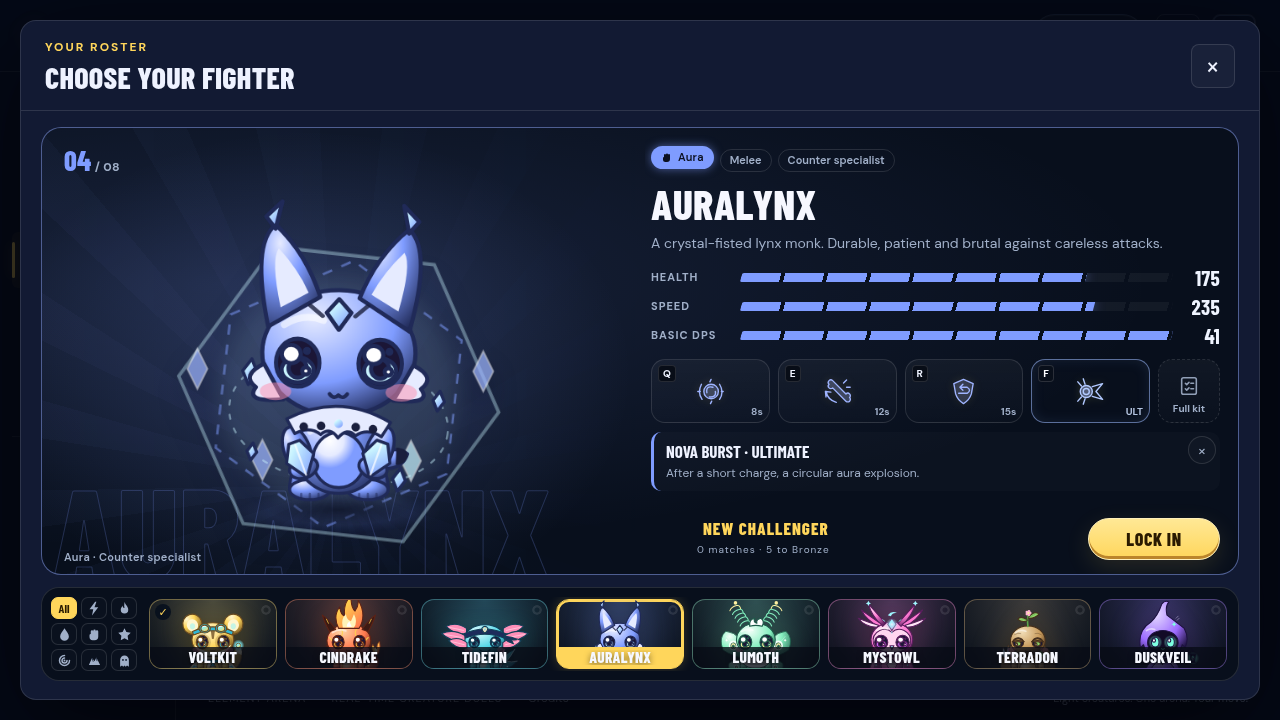
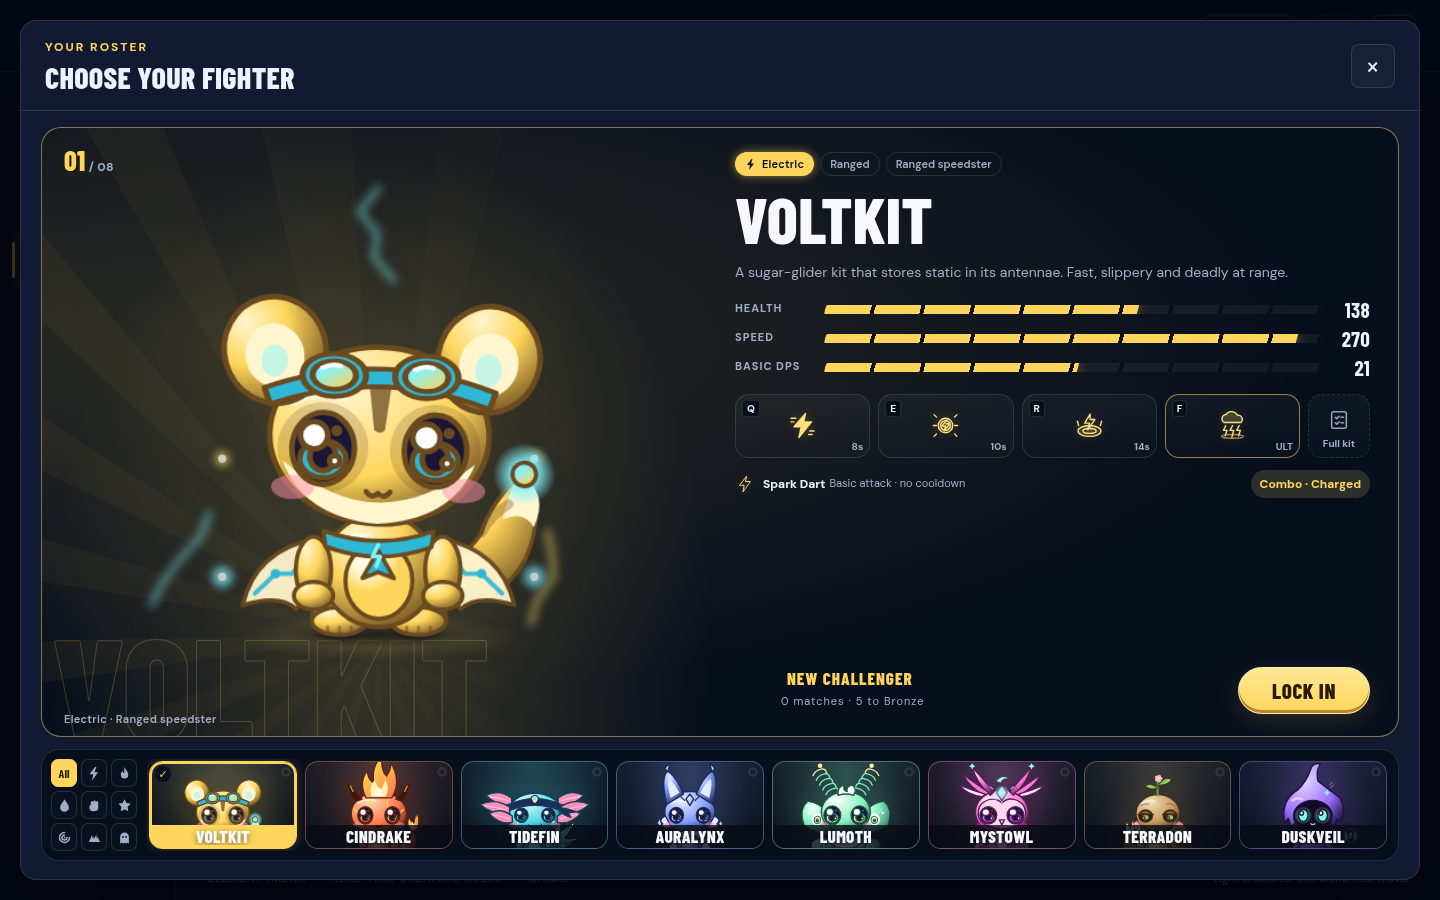
Ground fighter previews and align background rays

diff --git a/apps/client/src/fighter-selection.ts b/apps/client/src/fighter-selection.ts
@@ -27,7 +27,7 @@ function art(id: CharacterId, large = false, aura = false) {
     return `<img class="creature-portrait" loading="lazy" decoding="async" src="/assets/fighters/${id}/${large ? pack.selection : pack.portrait}" alt="${CHARACTERS[id].name}">`;
   // Card and detail portrait of the same fighter need their own ids.
   const svg = fighterArt(id, undefined, worn[id]);
-  const framed = large ? withSoftGround(svg) : svg;
+  const framed = large ? withSoftGround(svg, id) : svg;
   return scopeIds(
     aura ? withAura(framed, id, still()) : framed,
     large ? "detail" : "card",
@@ -362,6 +362,32 @@ export function placeFighterDetail(root: ParentNode) {
     else roster.append(detail);
   }
 }
+let groundResize: ResizeObserver | undefined;
+let groundedArt: HTMLElement | undefined;
+/** Match the rays to the SVG ground plane, including contain-fit letterboxing. */
+function alignChampionGround(detail: HTMLElement) {
+  const art = detail.querySelector<HTMLElement>(".fighter-rig-stage")!;
+  const align = () => {
+    const shadow = art.querySelector<SVGEllipseElement>(".fighter-shadow");
+    const matrix = shadow?.getScreenCTM();
+    if (!shadow || !matrix || !art.getClientRects().length) return;
+    const point = new DOMPoint(
+      shadow.cx.baseVal.value,
+      shadow.cy.baseVal.value,
+    );
+    const ground =
+      point.matrixTransform(matrix).y - art.getBoundingClientRect().top;
+    if (ground > 0)
+      art.style.setProperty("--champion-ground-y", `${ground.toFixed(2)}px`);
+  };
+  if (groundedArt !== art) {
+    groundResize?.disconnect();
+    groundedArt = art;
+    groundResize = new ResizeObserver(align);
+    groundResize.observe(art);
+  }
+  align();
+}
 /** Both sections remain in the DOM; native buttons also work with a controller. */
 function showFighterSection(detail: HTMLElement, section: string) {
   const skills = section === "skills";
@@ -377,6 +403,7 @@ function showFighterSection(detail: HTMLElement, section: string) {
       "aria-pressed",
       String(button.dataset.fighterPreview === section),
     );
+  alignChampionGround(detail);
 }
 function inspectSkill(detail: HTMLElement, key?: string) {
   const tooltip = detail.querySelector<HTMLElement>(".champion-skill-tooltip")!;
@@ -429,6 +456,8 @@ let navigationEvents: AbortController | undefined;
 /** Re-place the panel whenever the roster switches between layouts. */
 export function watchFighterDetail(root: HTMLElement) {
   watched?.disconnect();
+  groundResize?.disconnect();
+  groundedArt = undefined;
   navigationEvents?.abort();
   navigationEvents = new AbortController();
   const panel = root.querySelector<HTMLElement>(".roster-panel") ?? root;

diff --git a/apps/client/src/fighter-art.ts b/apps/client/src/fighter-art.ts
@@ -1,8 +1,29 @@
 import { CHARACTERS, type CharacterId } from "@arena/shared";
-import { AVATAR_VIEWBOX, creatureSvg, type SkinLook } from "./creature-design";
+import {
+  AVATAR_VIEWBOX,
+  creatureSvg,
+  proportioned,
+  type SkinLook,
+} from "./creature-design";
 
 /** A borderless contact shadow shared by Home and full fighter previews. */
-export function withSoftGround(svg: string) {
+export function withSoftGround(svg: string, id: CharacterId) {
+  // The old floor at y=177 predates the chibi limb proportions. Anchor the
+  // contact shade to the authored paws, using the same transform as the rig.
+  // Hovering fighters keep a diffuse floor beneath their airborne idle.
+  const hovering = ["auralynx", "mystowl", "duskveil"].includes(id);
+  const pawY = id === "terradon" ? 173 : id === "cindrake" ? 172 : 171;
+  const pawX = id === "terradon" ? 76 : id === "cindrake" ? 78 : 80;
+  const [left, feet] = proportioned("legL", pawX, pawY);
+  const ground = hovering ? 177 : feet;
+  const contact = hovering
+    ? ""
+    : [left, 200 - left]
+        .map(
+          (x) =>
+            `<ellipse cx="${x}" cy="${feet}" rx="12" ry="3" fill="url(#home-contact)"/>`,
+        )
+        .join("");
   return svg
     .replace(
       "</defs>",
@@ -10,7 +31,7 @@ export function withSoftGround(svg: string) {
     )
     .replace(
       /<ellipse class="fighter-shadow"[^>]*\/>/,
-      '<g class="home-contact-shadow" stroke="none"><ellipse cx="100" cy="178" rx="62" ry="13" fill="url(#home-floor-light)"/><ellipse class="fighter-shadow" cx="100" cy="177" rx="42" ry="9" fill="url(#home-contact)"/></g>',
+      `<g class="home-contact-shadow" stroke="none"><ellipse cx="100" cy="${ground + 1}" rx="62" ry="11" fill="url(#home-floor-light)"/><ellipse class="fighter-shadow" cx="100" cy="${ground}" rx="42" ry="${hovering ? 9 : 6}" fill="url(#home-contact)"/>${contact}</g>`,
     );
 }
 /**

diff --git a/apps/client/src/champion-selection.css b/apps/client/src/champion-selection.css
@@ -85,7 +85,7 @@
   overflow: hidden;
   isolation: isolate;
   background: radial-gradient(
-    ellipse at 45% 55%,
+    ellipse at 50% var(--champion-ground-y, 75%),
     color-mix(in srgb, var(--element) 20%, transparent),
     transparent 70%
   );
@@ -93,11 +93,11 @@
 #menu .champion-selector .selected-art::before {
   content: "";
   position: absolute;
-  inset: -25%;
+  inset: 0;
   z-index: -1;
   pointer-events: none;
   background: repeating-conic-gradient(
-    from -10deg at 50% 70%,
+    from -10deg at 50% var(--champion-ground-y, 75%),
     color-mix(in srgb, var(--element) 6%, transparent) 0deg 7deg,
     transparent 7deg 17deg
   );
@@ -109,6 +109,7 @@
   inset: 4% 3% 2%;
   width: 94% !important;
   height: 94% !important;
+  max-width: none;
   max-height: none;
   margin: 0;
   object-fit: contain;

diff --git a/apps/client/src/home-screen.ts b/apps/client/src/home-screen.ts
@@ -61,6 +61,7 @@ export function homeFeature(
           withAura(
             withSoftGround(
               fighterArt(id, "-20 -40 240 250", economy?.looks[id]),
+              id,
             ),
             id,
           ),

diff --git a/docs/champion-selection-redesign.md b/docs/champion-selection-redesign.md
@@ -6,6 +6,12 @@ animations use the existing shared preview renderer; there is only one live rig.
 The element glow, static rays and outlined fighter name frame the artwork without
 cropping tall crests or adding extra animated canvases.
 
+Standing fighters have a feathered shadow with contact shading at their paws;
+hovering fighters retain a softer floor beneath them. The background rays converge
+at that ground plane and follow its rendered position when the panel resizes.
+The SVG effects and animated canvas share the same frame on phones and desktop.
+Element, range and role badges also share their height and text alignment.
+
 The overview shows the fighter's description, range, role and comparative health,
 speed and basic DPS bars. Skill buttons open descriptions; Full kit includes all
 four abilities, the basic attack, combo and shared movement instructions. Values,
